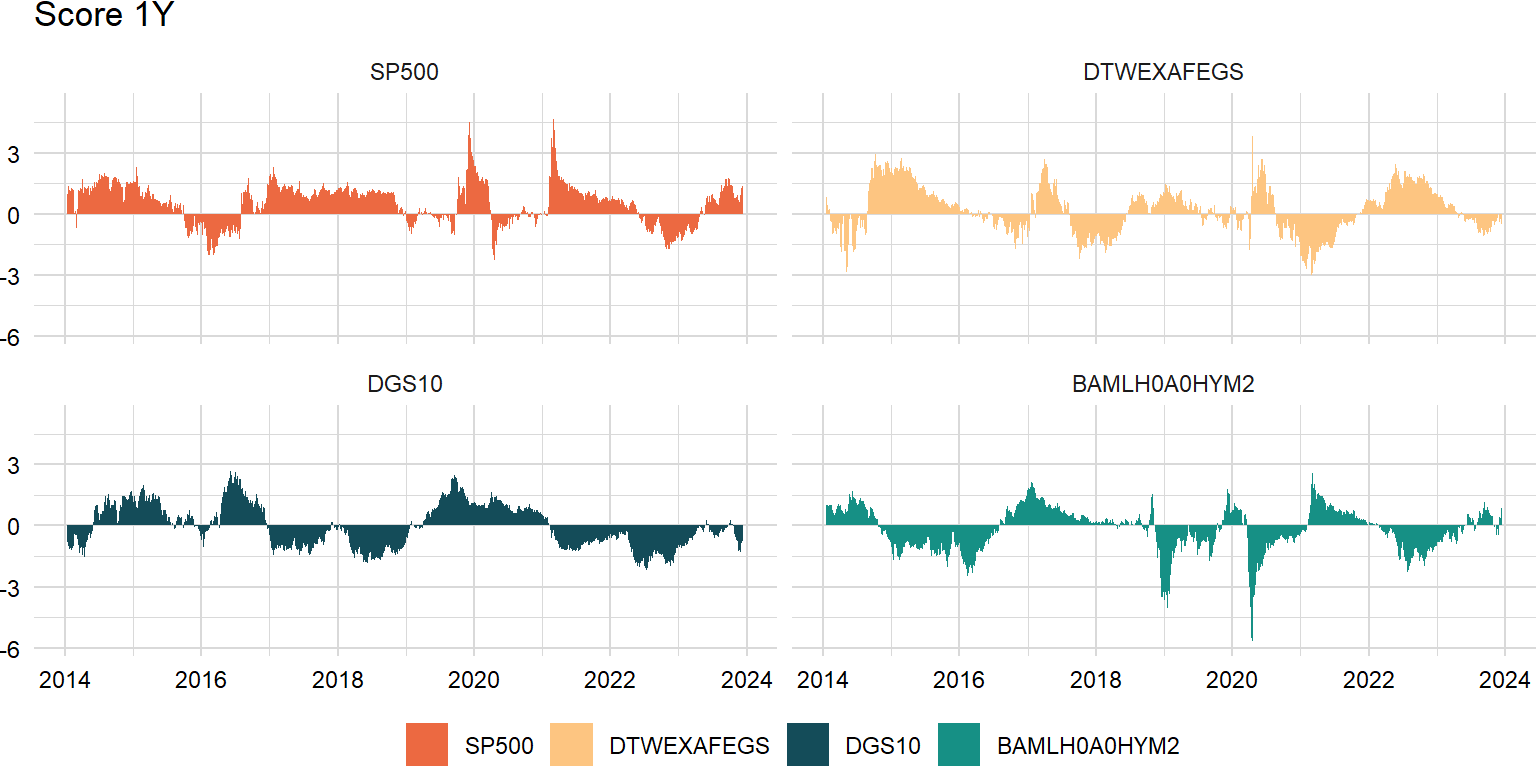
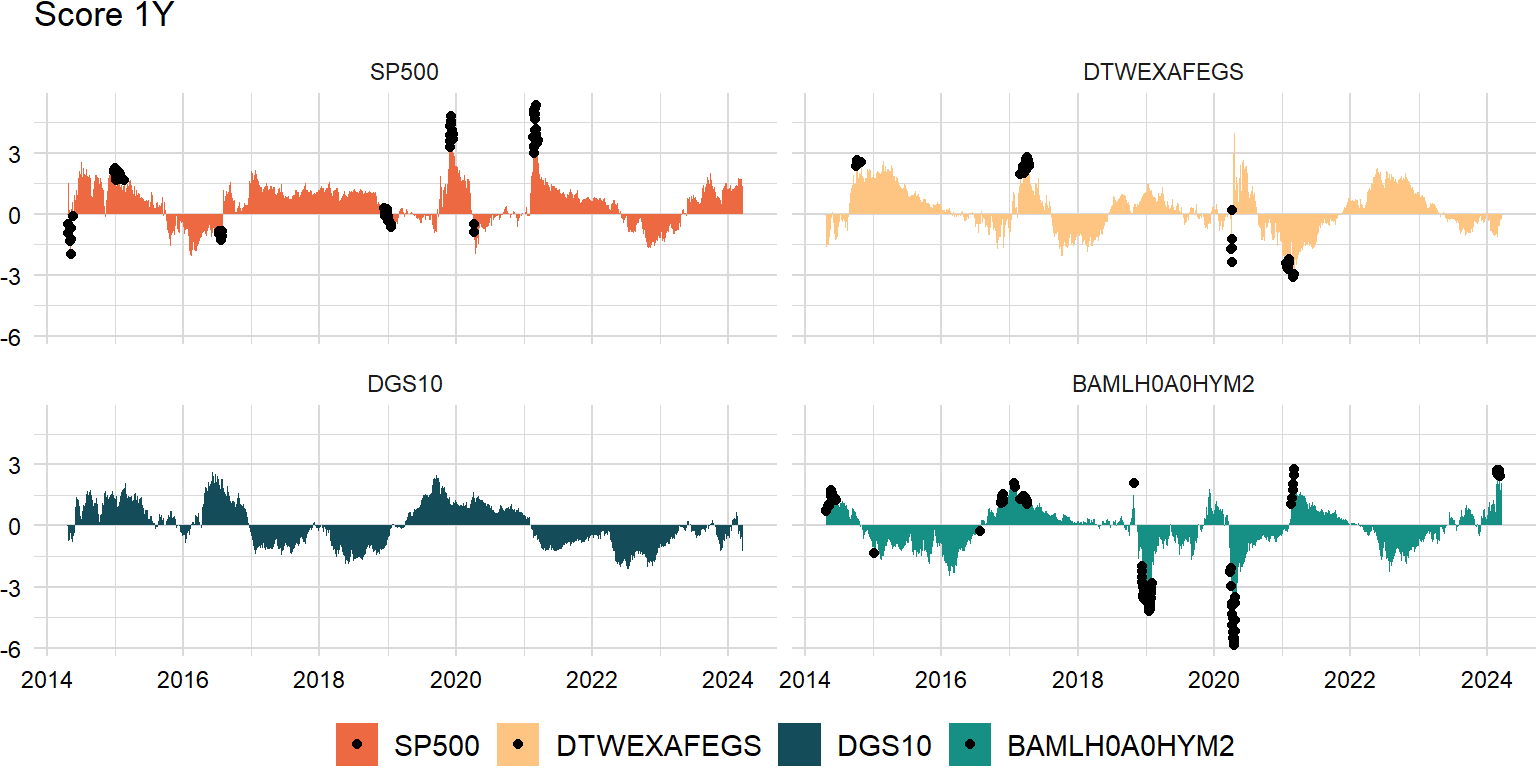
Version: 1.0.0

diff --git a/docs/posts/markets-py/index.html b/docs/posts/markets-py/index.html
@@ -334,6 +334,9 @@ window.Quarto = {
 </section>
 <section id="outlier-detection" class="level1">
 <h1>Outlier detection</h1>
+<div class="cell">
+<div class="sourceCode cell-code" id="cb9"><pre class="sourceCode python code-with-copy"><code class="sourceCode python"><span id="cb9-1"><a href="#cb9-1" aria-hidden="true" tabindex="-1"></a><span class="im">import</span> statsmodels.api <span class="im">as</span> sm</span></code><button title="Copy to Clipboard" class="code-copy-button"><i class="bi"></i></button></pre></div>
+</div>
 <section id="interquartile-range" class="level2">
 <h2 class="anchored" data-anchor-id="interquartile-range">Interquartile range</h2>
 <p>Outliers are defined as the regression residuals that fall below <span class="math inline">\(Q_{1}−1.5\times IQR\)</span> or above <span class="math inline">\(Q_{3}+1.5\times IQR\)</span>:</p>
@@ -343,46 +346,46 @@ window.Quarto = {
 <li><a href="https://robjhyndman.com/hyndsight/tsoutliers/" class="uri">https://robjhyndman.com/hyndsight/tsoutliers/</a></li>
 </ul>
 <div class="cell">
-<div class="sourceCode cell-code" id="cb9"><pre class="sourceCode python code-with-copy"><code class="sourceCode python"><span id="cb9-1"><a href="#cb9-1" aria-hidden="true" tabindex="-1"></a><span class="kw">def</span> outliers(z):</span>
-<span id="cb9-2"><a href="#cb9-2" aria-hidden="true" tabindex="-1"></a>  </span>
-<span id="cb9-3"><a href="#cb9-3" aria-hidden="true" tabindex="-1"></a>    n_cols <span class="op">=</span> z.shape[<span class="dv">1</span>]</span>
-<span id="cb9-4"><a href="#cb9-4" aria-hidden="true" tabindex="-1"></a>    result_ls <span class="op">=</span> []</span>
-<span id="cb9-5"><a href="#cb9-5" aria-hidden="true" tabindex="-1"></a></span>
-<span id="cb9-6"><a href="#cb9-6" aria-hidden="true" tabindex="-1"></a>    <span class="cf">for</span> j <span class="kw">in</span> <span class="bu">range</span>(n_cols):</span>
-<span id="cb9-7"><a href="#cb9-7" aria-hidden="true" tabindex="-1"></a>      </span>
-<span id="cb9-8"><a href="#cb9-8" aria-hidden="true" tabindex="-1"></a>        y <span class="op">=</span> z.iloc[:, j]</span>
-<span id="cb9-9"><a href="#cb9-9" aria-hidden="true" tabindex="-1"></a></span>
-<span id="cb9-10"><a href="#cb9-10" aria-hidden="true" tabindex="-1"></a>        <span class="cf">if</span> (n_cols <span class="op">==</span> <span class="dv">0</span>):</span>
-<span id="cb9-11"><a href="#cb9-11" aria-hidden="true" tabindex="-1"></a>            x <span class="op">=</span> sm.add_constant(<span class="bu">range</span>(<span class="bu">len</span>(y)))</span>
-<span id="cb9-12"><a href="#cb9-12" aria-hidden="true" tabindex="-1"></a>        <span class="cf">else</span>:</span>
-<span id="cb9-13"><a href="#cb9-13" aria-hidden="true" tabindex="-1"></a>            x <span class="op">=</span> sm.add_constant(z.drop(z.columns[j], axis <span class="op">=</span> <span class="dv">1</span>))</span>
-<span id="cb9-14"><a href="#cb9-14" aria-hidden="true" tabindex="-1"></a></span>
-<span id="cb9-15"><a href="#cb9-15" aria-hidden="true" tabindex="-1"></a>        coef <span class="op">=</span> sm.WLS(y, x).fit().params</span>
-<span id="cb9-16"><a href="#cb9-16" aria-hidden="true" tabindex="-1"></a>        predict <span class="op">=</span> coef.iloc[<span class="dv">0</span>] <span class="op">+</span> np.dot(x.iloc[:, <span class="dv">1</span>:], coef[<span class="dv">1</span>:])</span>
-<span id="cb9-17"><a href="#cb9-17" aria-hidden="true" tabindex="-1"></a>        resid <span class="op">=</span> y <span class="op">-</span> predict</span>
-<span id="cb9-18"><a href="#cb9-18" aria-hidden="true" tabindex="-1"></a></span>
-<span id="cb9-19"><a href="#cb9-19" aria-hidden="true" tabindex="-1"></a>        lower <span class="op">=</span> resid.quantile(<span class="fl">0.25</span>)</span>
-<span id="cb9-20"><a href="#cb9-20" aria-hidden="true" tabindex="-1"></a>        upper <span class="op">=</span> resid.quantile(<span class="fl">0.75</span>)</span>
-<span id="cb9-21"><a href="#cb9-21" aria-hidden="true" tabindex="-1"></a>        iqr <span class="op">=</span> upper <span class="op">-</span> lower</span>
-<span id="cb9-22"><a href="#cb9-22" aria-hidden="true" tabindex="-1"></a></span>
-<span id="cb9-23"><a href="#cb9-23" aria-hidden="true" tabindex="-1"></a>        total <span class="op">=</span> y[(resid <span class="op">&lt;</span> lower <span class="op">-</span> <span class="fl">1.5</span> <span class="op">*</span> iqr) <span class="op">|</span> (resid <span class="op">&gt;</span> upper <span class="op">+</span> <span class="fl">1.5</span> <span class="op">*</span> iqr)]</span>
-<span id="cb9-24"><a href="#cb9-24" aria-hidden="true" tabindex="-1"></a>        </span>
-<span id="cb9-25"><a href="#cb9-25" aria-hidden="true" tabindex="-1"></a>        total <span class="op">=</span> pd.DataFrame({<span class="st">"date"</span>: total.index, <span class="st">"symbol"</span>: total.name, <span class="st">"values"</span>: total})</span>
-<span id="cb9-26"><a href="#cb9-26" aria-hidden="true" tabindex="-1"></a>        result_ls.append(total)</span>
-<span id="cb9-27"><a href="#cb9-27" aria-hidden="true" tabindex="-1"></a></span>
-<span id="cb9-28"><a href="#cb9-28" aria-hidden="true" tabindex="-1"></a>    result <span class="op">=</span> pd.concat(result_ls, ignore_index <span class="op">=</span> <span class="va">True</span>)</span>
-<span id="cb9-29"><a href="#cb9-29" aria-hidden="true" tabindex="-1"></a>    result <span class="op">=</span> result.pivot_table(index <span class="op">=</span> <span class="st">"date"</span>, columns <span class="op">=</span> <span class="st">"symbol"</span>, values <span class="op">=</span> <span class="st">"values"</span>)</span>
-<span id="cb9-30"><a href="#cb9-30" aria-hidden="true" tabindex="-1"></a></span>
-<span id="cb9-31"><a href="#cb9-31" aria-hidden="true" tabindex="-1"></a>    <span class="cf">return</span> result</span></code><button title="Copy to Clipboard" class="code-copy-button"><i class="bi"></i></button></pre></div>
+<div class="sourceCode cell-code" id="cb10"><pre class="sourceCode python code-with-copy"><code class="sourceCode python"><span id="cb10-1"><a href="#cb10-1" aria-hidden="true" tabindex="-1"></a><span class="kw">def</span> outliers(z):</span>
+<span id="cb10-2"><a href="#cb10-2" aria-hidden="true" tabindex="-1"></a>  </span>
+<span id="cb10-3"><a href="#cb10-3" aria-hidden="true" tabindex="-1"></a>    n_cols <span class="op">=</span> z.shape[<span class="dv">1</span>]</span>
+<span id="cb10-4"><a href="#cb10-4" aria-hidden="true" tabindex="-1"></a>    result_ls <span class="op">=</span> []</span>
+<span id="cb10-5"><a href="#cb10-5" aria-hidden="true" tabindex="-1"></a></span>
+<span id="cb10-6"><a href="#cb10-6" aria-hidden="true" tabindex="-1"></a>    <span class="cf">for</span> j <span class="kw">in</span> <span class="bu">range</span>(n_cols):</span>
+<span id="cb10-7"><a href="#cb10-7" aria-hidden="true" tabindex="-1"></a>      </span>
+<span id="cb10-8"><a href="#cb10-8" aria-hidden="true" tabindex="-1"></a>        y <span class="op">=</span> z.iloc[:, j]</span>
+<span id="cb10-9"><a href="#cb10-9" aria-hidden="true" tabindex="-1"></a></span>
+<span id="cb10-10"><a href="#cb10-10" aria-hidden="true" tabindex="-1"></a>        <span class="cf">if</span> (n_cols <span class="op">==</span> <span class="dv">0</span>):</span>
+<span id="cb10-11"><a href="#cb10-11" aria-hidden="true" tabindex="-1"></a>            x <span class="op">=</span> sm.add_constant(<span class="bu">range</span>(<span class="bu">len</span>(y)))</span>
+<span id="cb10-12"><a href="#cb10-12" aria-hidden="true" tabindex="-1"></a>        <span class="cf">else</span>:</span>
+<span id="cb10-13"><a href="#cb10-13" aria-hidden="true" tabindex="-1"></a>            x <span class="op">=</span> sm.add_constant(z.drop(z.columns[j], axis <span class="op">=</span> <span class="dv">1</span>))</span>
+<span id="cb10-14"><a href="#cb10-14" aria-hidden="true" tabindex="-1"></a></span>
+<span id="cb10-15"><a href="#cb10-15" aria-hidden="true" tabindex="-1"></a>        coef <span class="op">=</span> sm.WLS(y, x).fit().params</span>
+<span id="cb10-16"><a href="#cb10-16" aria-hidden="true" tabindex="-1"></a>        predict <span class="op">=</span> coef.iloc[<span class="dv">0</span>] <span class="op">+</span> np.dot(x.iloc[:, <span class="dv">1</span>:], coef[<span class="dv">1</span>:])</span>
+<span id="cb10-17"><a href="#cb10-17" aria-hidden="true" tabindex="-1"></a>        resid <span class="op">=</span> y <span class="op">-</span> predict</span>
+<span id="cb10-18"><a href="#cb10-18" aria-hidden="true" tabindex="-1"></a></span>
+<span id="cb10-19"><a href="#cb10-19" aria-hidden="true" tabindex="-1"></a>        lower <span class="op">=</span> resid.quantile(<span class="fl">0.25</span>)</span>
+<span id="cb10-20"><a href="#cb10-20" aria-hidden="true" tabindex="-1"></a>        upper <span class="op">=</span> resid.quantile(<span class="fl">0.75</span>)</span>
+<span id="cb10-21"><a href="#cb10-21" aria-hidden="true" tabindex="-1"></a>        iqr <span class="op">=</span> upper <span class="op">-</span> lower</span>
+<span id="cb10-22"><a href="#cb10-22" aria-hidden="true" tabindex="-1"></a></span>
+<span id="cb10-23"><a href="#cb10-23" aria-hidden="true" tabindex="-1"></a>        total <span class="op">=</span> y[(resid <span class="op">&lt;</span> lower <span class="op">-</span> <span class="fl">1.5</span> <span class="op">*</span> iqr) <span class="op">|</span> (resid <span class="op">&gt;</span> upper <span class="op">+</span> <span class="fl">1.5</span> <span class="op">*</span> iqr)]</span>
+<span id="cb10-24"><a href="#cb10-24" aria-hidden="true" tabindex="-1"></a>        </span>
+<span id="cb10-25"><a href="#cb10-25" aria-hidden="true" tabindex="-1"></a>        total <span class="op">=</span> pd.DataFrame({<span class="st">"date"</span>: total.index, <span class="st">"symbol"</span>: total.name, <span class="st">"values"</span>: total})</span>
+<span id="cb10-26"><a href="#cb10-26" aria-hidden="true" tabindex="-1"></a>        result_ls.append(total)</span>
+<span id="cb10-27"><a href="#cb10-27" aria-hidden="true" tabindex="-1"></a></span>
+<span id="cb10-28"><a href="#cb10-28" aria-hidden="true" tabindex="-1"></a>    result <span class="op">=</span> pd.concat(result_ls, ignore_index <span class="op">=</span> <span class="va">True</span>)</span>
+<span id="cb10-29"><a href="#cb10-29" aria-hidden="true" tabindex="-1"></a>    result <span class="op">=</span> result.pivot_table(index <span class="op">=</span> <span class="st">"date"</span>, columns <span class="op">=</span> <span class="st">"symbol"</span>, values <span class="op">=</span> <span class="st">"values"</span>)</span>
+<span id="cb10-30"><a href="#cb10-30" aria-hidden="true" tabindex="-1"></a></span>
+<span id="cb10-31"><a href="#cb10-31" aria-hidden="true" tabindex="-1"></a>    <span class="cf">return</span> result</span></code><button title="Copy to Clipboard" class="code-copy-button"><i class="bi"></i></button></pre></div>
 </div>
 <div class="cell">
-<div class="sourceCode cell-code" id="cb10"><pre class="sourceCode python code-with-copy"><code class="sourceCode python"><span id="cb10-1"><a href="#cb10-1" aria-hidden="true" tabindex="-1"></a>outliers_df <span class="op">=</span> outliers(score_df)</span></code><button title="Copy to Clipboard" class="code-copy-button"><i class="bi"></i></button></pre></div>
+<div class="sourceCode cell-code" id="cb11"><pre class="sourceCode python code-with-copy"><code class="sourceCode python"><span id="cb11-1"><a href="#cb11-1" aria-hidden="true" tabindex="-1"></a>outliers_df <span class="op">=</span> outliers(score_df)</span></code><button title="Copy to Clipboard" class="code-copy-button"><i class="bi"></i></button></pre></div>
 </div>
 <div class="cell">
 <div class="cell-output-display">
 <div>
 <figure class="figure">
-<p><img src="index_files/figure-html/unnamed-chunk-15-1.png" class="img-fluid figure-img" width="768"></p>
+<p><img src="index_files/figure-html/unnamed-chunk-16-1.png" class="img-fluid figure-img" width="768"></p>
 </figure>
 </div>
 </div>
@@ -395,7 +398,7 @@ window.Quarto = {
 <section id="granger-causality" class="level1">
 <h1>Granger causality</h1>
 <div class="cell">
-<div class="sourceCode cell-code" id="cb11"><pre class="sourceCode python code-with-copy"><code class="sourceCode python"><span id="cb11-1"><a href="#cb11-1" aria-hidden="true" tabindex="-1"></a><span class="im">from</span> scipy.stats <span class="im">import</span> chi2</span></code><button title="Copy to Clipboard" class="code-copy-button"><i class="bi"></i></button></pre></div>
+<div class="sourceCode cell-code" id="cb12"><pre class="sourceCode python code-with-copy"><code class="sourceCode python"><span id="cb12-1"><a href="#cb12-1" aria-hidden="true" tabindex="-1"></a><span class="im">from</span> scipy.stats <span class="im">import</span> chi2</span></code><button title="Copy to Clipboard" class="code-copy-button"><i class="bi"></i></button></pre></div>
 </div>
 <p><span class="math display">\[
 \begin{aligned}
@@ -408,72 +411,72 @@ window.Quarto = {
 <li><a href="https://math.stackexchange.com/a/1591946" class="uri">https://math.stackexchange.com/a/1591946</a></li>
 </ul>
 <div class="cell">
-<div class="sourceCode cell-code" id="cb12"><pre class="sourceCode python code-with-copy"><code class="sourceCode python"><span id="cb12-1"><a href="#cb12-1" aria-hidden="true" tabindex="-1"></a><span class="kw">def</span> granger_test(x, y, order):</span>
-<span id="cb12-2"><a href="#cb12-2" aria-hidden="true" tabindex="-1"></a>    </span>
-<span id="cb12-3"><a href="#cb12-3" aria-hidden="true" tabindex="-1"></a>    <span class="co"># compute lagged observations</span></span>
-<span id="cb12-4"><a href="#cb12-4" aria-hidden="true" tabindex="-1"></a>    lag_x <span class="op">=</span> x.shift(order)</span>
-<span id="cb12-5"><a href="#cb12-5" aria-hidden="true" tabindex="-1"></a>    lag_y <span class="op">=</span> y.shift(order)</span>
-<span id="cb12-6"><a href="#cb12-6" aria-hidden="true" tabindex="-1"></a>    </span>
-<span id="cb12-7"><a href="#cb12-7" aria-hidden="true" tabindex="-1"></a>    <span class="co"># collect series</span></span>
-<span id="cb12-8"><a href="#cb12-8" aria-hidden="true" tabindex="-1"></a>    df <span class="op">=</span> pd.DataFrame({<span class="st">"x"</span>: x, <span class="st">"y"</span>: y, <span class="st">"lag_x"</span>: lag_x, <span class="st">"lag_y"</span>: lag_y})</span>
-<span id="cb12-9"><a href="#cb12-9" aria-hidden="true" tabindex="-1"></a>    x <span class="op">=</span> sm.add_constant(df[[<span class="st">"lag_y"</span>, <span class="st">"lag_x"</span>]])</span>
-<span id="cb12-10"><a href="#cb12-10" aria-hidden="true" tabindex="-1"></a>    </span>
-<span id="cb12-11"><a href="#cb12-11" aria-hidden="true" tabindex="-1"></a>    <span class="co"># fit full model</span></span>
-<span id="cb12-12"><a href="#cb12-12" aria-hidden="true" tabindex="-1"></a>    fit <span class="op">=</span> sm.WLS(df[<span class="st">"y"</span>], x, missing <span class="op">=</span> <span class="st">"drop"</span>).fit()</span>
-<span id="cb12-13"><a href="#cb12-13" aria-hidden="true" tabindex="-1"></a>    </span>
-<span id="cb12-14"><a href="#cb12-14" aria-hidden="true" tabindex="-1"></a>    R <span class="op">=</span> np.array([<span class="dv">0</span>, <span class="dv">0</span>, <span class="dv">1</span>])</span>
-<span id="cb12-15"><a href="#cb12-15" aria-hidden="true" tabindex="-1"></a>    coef <span class="op">=</span> fit.params</span>
-<span id="cb12-16"><a href="#cb12-16" aria-hidden="true" tabindex="-1"></a>    r <span class="op">=</span> <span class="dv">0</span> <span class="co"># technically a matrix (see Stack Exchange)</span></span>
-<span id="cb12-17"><a href="#cb12-17" aria-hidden="true" tabindex="-1"></a>    </span>
-<span id="cb12-18"><a href="#cb12-18" aria-hidden="true" tabindex="-1"></a>    matmul <span class="op">=</span> np.dot(R, coef) <span class="op">-</span> r</span>
-<span id="cb12-19"><a href="#cb12-19" aria-hidden="true" tabindex="-1"></a>    matmul_mid <span class="op">=</span> np.linalg.inv(np.atleast_2d(np.dot(R, np.dot(fit.cov_params(), R.T))))</span>
-<span id="cb12-20"><a href="#cb12-20" aria-hidden="true" tabindex="-1"></a>    wald <span class="op">=</span> np.dot(matmul.T, np.dot(matmul_mid, matmul))</span>
-<span id="cb12-21"><a href="#cb12-21" aria-hidden="true" tabindex="-1"></a>    </span>
-<span id="cb12-22"><a href="#cb12-22" aria-hidden="true" tabindex="-1"></a>    result <span class="op">=</span> <span class="dv">1</span> <span class="op">-</span> chi2.cdf(wald, <span class="dv">1</span>)</span>
-<span id="cb12-23"><a href="#cb12-23" aria-hidden="true" tabindex="-1"></a>    </span>
-<span id="cb12-24"><a href="#cb12-24" aria-hidden="true" tabindex="-1"></a>    <span class="cf">return</span> np.ravel(result)</span></code><button title="Copy to Clipboard" class="code-copy-button"><i class="bi"></i></button></pre></div>
-</div>
-<div class="cell">
-<div class="sourceCode cell-code" id="cb13"><pre class="sourceCode python code-with-copy"><code class="sourceCode python"><span id="cb13-1"><a href="#cb13-1" aria-hidden="true" tabindex="-1"></a><span class="kw">def</span> roll_lead_lag(x, y, width, order, p_value):</span>
-<span id="cb13-2"><a href="#cb13-2" aria-hidden="true" tabindex="-1"></a>  </span>
-<span id="cb13-3"><a href="#cb13-3" aria-hidden="true" tabindex="-1"></a>    n_rows <span class="op">=</span> <span class="bu">len</span>(x)</span>
-<span id="cb13-4"><a href="#cb13-4" aria-hidden="true" tabindex="-1"></a>    x_name <span class="op">=</span> x.name</span>
-<span id="cb13-5"><a href="#cb13-5" aria-hidden="true" tabindex="-1"></a>    y_name <span class="op">=</span> y.name</span>
-<span id="cb13-6"><a href="#cb13-6" aria-hidden="true" tabindex="-1"></a>    x_y_ls <span class="op">=</span> []</span>
-<span id="cb13-7"><a href="#cb13-7" aria-hidden="true" tabindex="-1"></a>    y_x_ls <span class="op">=</span> []</span>
-<span id="cb13-8"><a href="#cb13-8" aria-hidden="true" tabindex="-1"></a></span>
-<span id="cb13-9"><a href="#cb13-9" aria-hidden="true" tabindex="-1"></a>    <span class="cf">for</span> i <span class="kw">in</span> <span class="bu">range</span>(width <span class="op">-</span> <span class="dv">1</span>, n_rows):</span>
-<span id="cb13-10"><a href="#cb13-10" aria-hidden="true" tabindex="-1"></a>      </span>
-<span id="cb13-11"><a href="#cb13-11" aria-hidden="true" tabindex="-1"></a>        idx <span class="op">=</span> <span class="bu">range</span>(<span class="bu">max</span>(i <span class="op">-</span> width <span class="op">+</span> <span class="dv">1</span>, <span class="dv">0</span>), i <span class="op">+</span> <span class="dv">1</span>)</span>
-<span id="cb13-12"><a href="#cb13-12" aria-hidden="true" tabindex="-1"></a></span>
-<span id="cb13-13"><a href="#cb13-13" aria-hidden="true" tabindex="-1"></a>        x_y <span class="op">=</span> granger_test(x.iloc[idx], y.iloc[idx], order)</span>
-<span id="cb13-14"><a href="#cb13-14" aria-hidden="true" tabindex="-1"></a>        y_x <span class="op">=</span> granger_test(y.iloc[idx], x.iloc[idx], order)</span>
-<span id="cb13-15"><a href="#cb13-15" aria-hidden="true" tabindex="-1"></a></span>
-<span id="cb13-16"><a href="#cb13-16" aria-hidden="true" tabindex="-1"></a>        x_y_status <span class="op">=</span> (x_y <span class="op">&lt;</span> p_value) <span class="kw">and</span> (y_x <span class="op">&gt;</span> p_value)</span>
-<span id="cb13-17"><a href="#cb13-17" aria-hidden="true" tabindex="-1"></a>        y_x_status <span class="op">=</span> (x_y <span class="op">&gt;</span> p_value) <span class="kw">and</span> (y_x <span class="op">&lt;</span> p_value)</span>
-<span id="cb13-18"><a href="#cb13-18" aria-hidden="true" tabindex="-1"></a>        </span>
-<span id="cb13-19"><a href="#cb13-19" aria-hidden="true" tabindex="-1"></a>        x_y_ls.append(x_y_status)</span>
-<span id="cb13-20"><a href="#cb13-20" aria-hidden="true" tabindex="-1"></a>        y_x_ls.append(y_x_status)</span>
+<div class="sourceCode cell-code" id="cb13"><pre class="sourceCode python code-with-copy"><code class="sourceCode python"><span id="cb13-1"><a href="#cb13-1" aria-hidden="true" tabindex="-1"></a><span class="kw">def</span> granger_test(x, y, order):</span>
+<span id="cb13-2"><a href="#cb13-2" aria-hidden="true" tabindex="-1"></a>    </span>
+<span id="cb13-3"><a href="#cb13-3" aria-hidden="true" tabindex="-1"></a>    <span class="co"># compute lagged observations</span></span>
+<span id="cb13-4"><a href="#cb13-4" aria-hidden="true" tabindex="-1"></a>    lag_x <span class="op">=</span> x.shift(order)</span>
+<span id="cb13-5"><a href="#cb13-5" aria-hidden="true" tabindex="-1"></a>    lag_y <span class="op">=</span> y.shift(order)</span>
+<span id="cb13-6"><a href="#cb13-6" aria-hidden="true" tabindex="-1"></a>    </span>
+<span id="cb13-7"><a href="#cb13-7" aria-hidden="true" tabindex="-1"></a>    <span class="co"># collect series</span></span>
+<span id="cb13-8"><a href="#cb13-8" aria-hidden="true" tabindex="-1"></a>    df <span class="op">=</span> pd.DataFrame({<span class="st">"x"</span>: x, <span class="st">"y"</span>: y, <span class="st">"lag_x"</span>: lag_x, <span class="st">"lag_y"</span>: lag_y})</span>
+<span id="cb13-9"><a href="#cb13-9" aria-hidden="true" tabindex="-1"></a>    x <span class="op">=</span> sm.add_constant(df[[<span class="st">"lag_y"</span>, <span class="st">"lag_x"</span>]])</span>
+<span id="cb13-10"><a href="#cb13-10" aria-hidden="true" tabindex="-1"></a>    </span>
+<span id="cb13-11"><a href="#cb13-11" aria-hidden="true" tabindex="-1"></a>    <span class="co"># fit full model</span></span>
+<span id="cb13-12"><a href="#cb13-12" aria-hidden="true" tabindex="-1"></a>    fit <span class="op">=</span> sm.WLS(df[<span class="st">"y"</span>], x, missing <span class="op">=</span> <span class="st">"drop"</span>).fit()</span>
+<span id="cb13-13"><a href="#cb13-13" aria-hidden="true" tabindex="-1"></a>    </span>
+<span id="cb13-14"><a href="#cb13-14" aria-hidden="true" tabindex="-1"></a>    R <span class="op">=</span> np.array([<span class="dv">0</span>, <span class="dv">0</span>, <span class="dv">1</span>])</span>
+<span id="cb13-15"><a href="#cb13-15" aria-hidden="true" tabindex="-1"></a>    coef <span class="op">=</span> fit.params</span>
+<span id="cb13-16"><a href="#cb13-16" aria-hidden="true" tabindex="-1"></a>    r <span class="op">=</span> <span class="dv">0</span> <span class="co"># technically a matrix (see Stack Exchange)</span></span>
+<span id="cb13-17"><a href="#cb13-17" aria-hidden="true" tabindex="-1"></a>    </span>
+<span id="cb13-18"><a href="#cb13-18" aria-hidden="true" tabindex="-1"></a>    matmul <span class="op">=</span> np.dot(R, coef) <span class="op">-</span> r</span>
+<span id="cb13-19"><a href="#cb13-19" aria-hidden="true" tabindex="-1"></a>    matmul_mid <span class="op">=</span> np.linalg.inv(np.atleast_2d(np.dot(R, np.dot(fit.cov_params(), R.T))))</span>
+<span id="cb13-20"><a href="#cb13-20" aria-hidden="true" tabindex="-1"></a>    wald <span class="op">=</span> np.dot(matmul.T, np.dot(matmul_mid, matmul))</span>
 <span id="cb13-21"><a href="#cb13-21" aria-hidden="true" tabindex="-1"></a>    </span>
-<span id="cb13-22"><a href="#cb13-22" aria-hidden="true" tabindex="-1"></a>    result <span class="op">=</span> pd.DataFrame({x_name: x_y_ls, y_name: y_x_ls}, index <span class="op">=</span> x.index[(width <span class="op">-</span> <span class="dv">1</span>):])</span>
-<span id="cb13-23"><a href="#cb13-23" aria-hidden="true" tabindex="-1"></a></span>
-<span id="cb13-24"><a href="#cb13-24" aria-hidden="true" tabindex="-1"></a>    <span class="cf">return</span> result</span></code><button title="Copy to Clipboard" class="code-copy-button"><i class="bi"></i></button></pre></div>
+<span id="cb13-22"><a href="#cb13-22" aria-hidden="true" tabindex="-1"></a>    result <span class="op">=</span> <span class="dv">1</span> <span class="op">-</span> chi2.cdf(wald, <span class="dv">1</span>)</span>
+<span id="cb13-23"><a href="#cb13-23" aria-hidden="true" tabindex="-1"></a>    </span>
+<span id="cb13-24"><a href="#cb13-24" aria-hidden="true" tabindex="-1"></a>    <span class="cf">return</span> np.ravel(result)</span></code><button title="Copy to Clipboard" class="code-copy-button"><i class="bi"></i></button></pre></div>
 </div>
 <div class="cell">
-<div class="sourceCode cell-code" id="cb14"><pre class="sourceCode python code-with-copy"><code class="sourceCode python"><span id="cb14-1"><a href="#cb14-1" aria-hidden="true" tabindex="-1"></a>p_value <span class="op">=</span> <span class="fl">0.05</span></span></code><button title="Copy to Clipboard" class="code-copy-button"><i class="bi"></i></button></pre></div>
+<div class="sourceCode cell-code" id="cb14"><pre class="sourceCode python code-with-copy"><code class="sourceCode python"><span id="cb14-1"><a href="#cb14-1" aria-hidden="true" tabindex="-1"></a><span class="kw">def</span> roll_lead_lag(x, y, width, order, p_value):</span>
+<span id="cb14-2"><a href="#cb14-2" aria-hidden="true" tabindex="-1"></a>  </span>
+<span id="cb14-3"><a href="#cb14-3" aria-hidden="true" tabindex="-1"></a>    n_rows <span class="op">=</span> <span class="bu">len</span>(x)</span>
+<span id="cb14-4"><a href="#cb14-4" aria-hidden="true" tabindex="-1"></a>    x_name <span class="op">=</span> x.name</span>
+<span id="cb14-5"><a href="#cb14-5" aria-hidden="true" tabindex="-1"></a>    y_name <span class="op">=</span> y.name</span>
+<span id="cb14-6"><a href="#cb14-6" aria-hidden="true" tabindex="-1"></a>    x_y_ls <span class="op">=</span> []</span>
+<span id="cb14-7"><a href="#cb14-7" aria-hidden="true" tabindex="-1"></a>    y_x_ls <span class="op">=</span> []</span>
+<span id="cb14-8"><a href="#cb14-8" aria-hidden="true" tabindex="-1"></a></span>
+<span id="cb14-9"><a href="#cb14-9" aria-hidden="true" tabindex="-1"></a>    <span class="cf">for</span> i <span class="kw">in</span> <span class="bu">range</span>(width <span class="op">-</span> <span class="dv">1</span>, n_rows):</span>
+<span id="cb14-10"><a href="#cb14-10" aria-hidden="true" tabindex="-1"></a>      </span>
+<span id="cb14-11"><a href="#cb14-11" aria-hidden="true" tabindex="-1"></a>        idx <span class="op">=</span> <span class="bu">range</span>(<span class="bu">max</span>(i <span class="op">-</span> width <span class="op">+</span> <span class="dv">1</span>, <span class="dv">0</span>), i <span class="op">+</span> <span class="dv">1</span>)</span>
+<span id="cb14-12"><a href="#cb14-12" aria-hidden="true" tabindex="-1"></a></span>
+<span id="cb14-13"><a href="#cb14-13" aria-hidden="true" tabindex="-1"></a>        x_y <span class="op">=</span> granger_test(x.iloc[idx], y.iloc[idx], order)</span>
+<span id="cb14-14"><a href="#cb14-14" aria-hidden="true" tabindex="-1"></a>        y_x <span class="op">=</span> granger_test(y.iloc[idx], x.iloc[idx], order)</span>
+<span id="cb14-15"><a href="#cb14-15" aria-hidden="true" tabindex="-1"></a></span>
+<span id="cb14-16"><a href="#cb14-16" aria-hidden="true" tabindex="-1"></a>        x_y_status <span class="op">=</span> (x_y <span class="op">&lt;</span> p_value) <span class="kw">and</span> (y_x <span class="op">&gt;</span> p_value)</span>
+<span id="cb14-17"><a href="#cb14-17" aria-hidden="true" tabindex="-1"></a>        y_x_status <span class="op">=</span> (x_y <span class="op">&gt;</span> p_value) <span class="kw">and</span> (y_x <span class="op">&lt;</span> p_value)</span>
+<span id="cb14-18"><a href="#cb14-18" aria-hidden="true" tabindex="-1"></a>        </span>
+<span id="cb14-19"><a href="#cb14-19" aria-hidden="true" tabindex="-1"></a>        x_y_ls.append(x_y_status)</span>
+<span id="cb14-20"><a href="#cb14-20" aria-hidden="true" tabindex="-1"></a>        y_x_ls.append(y_x_status)</span>
+<span id="cb14-21"><a href="#cb14-21" aria-hidden="true" tabindex="-1"></a>    </span>
+<span id="cb14-22"><a href="#cb14-22" aria-hidden="true" tabindex="-1"></a>    result <span class="op">=</span> pd.DataFrame({x_name: x_y_ls, y_name: y_x_ls}, index <span class="op">=</span> x.index[(width <span class="op">-</span> <span class="dv">1</span>):])</span>
+<span id="cb14-23"><a href="#cb14-23" aria-hidden="true" tabindex="-1"></a></span>
+<span id="cb14-24"><a href="#cb14-24" aria-hidden="true" tabindex="-1"></a>    <span class="cf">return</span> result</span></code><button title="Copy to Clipboard" class="code-copy-button"><i class="bi"></i></button></pre></div>
 </div>
 <div class="cell">
-<div class="sourceCode cell-code" id="cb15"><pre class="sourceCode python code-with-copy"><code class="sourceCode python"><span id="cb15-1"><a href="#cb15-1" aria-hidden="true" tabindex="-1"></a>score_x_df <span class="op">=</span> score_df.loc[:, <span class="st">"SP500"</span>]</span>
-<span id="cb15-2"><a href="#cb15-2" aria-hidden="true" tabindex="-1"></a>score_y_df <span class="op">=</span> score_df.loc[:, <span class="st">"DGS10"</span>]</span></code><button title="Copy to Clipboard" class="code-copy-button"><i class="bi"></i></button></pre></div>
+<div class="sourceCode cell-code" id="cb15"><pre class="sourceCode python code-with-copy"><code class="sourceCode python"><span id="cb15-1"><a href="#cb15-1" aria-hidden="true" tabindex="-1"></a>p_value <span class="op">=</span> <span class="fl">0.05</span></span></code><button title="Copy to Clipboard" class="code-copy-button"><i class="bi"></i></button></pre></div>
 </div>
 <div class="cell">
-<div class="sourceCode cell-code" id="cb16"><pre class="sourceCode python code-with-copy"><code class="sourceCode python"><span id="cb16-1"><a href="#cb16-1" aria-hidden="true" tabindex="-1"></a>lead_lag_df <span class="op">=</span> roll_lead_lag(score_x_df, score_y_df, width, order, p_value)</span></code><button title="Copy to Clipboard" class="code-copy-button"><i class="bi"></i></button></pre></div>
+<div class="sourceCode cell-code" id="cb16"><pre class="sourceCode python code-with-copy"><code class="sourceCode python"><span id="cb16-1"><a href="#cb16-1" aria-hidden="true" tabindex="-1"></a>score_x_df <span class="op">=</span> score_df.loc[:, <span class="st">"SP500"</span>]</span>
+<span id="cb16-2"><a href="#cb16-2" aria-hidden="true" tabindex="-1"></a>score_y_df <span class="op">=</span> score_df.loc[:, <span class="st">"DGS10"</span>]</span></code><button title="Copy to Clipboard" class="code-copy-button"><i class="bi"></i></button></pre></div>
+</div>
+<div class="cell">
+<div class="sourceCode cell-code" id="cb17"><pre class="sourceCode python code-with-copy"><code class="sourceCode python"><span id="cb17-1"><a href="#cb17-1" aria-hidden="true" tabindex="-1"></a>lead_lag_df <span class="op">=</span> roll_lead_lag(score_x_df, score_y_df, width, order, p_value)</span></code><button title="Copy to Clipboard" class="code-copy-button"><i class="bi"></i></button></pre></div>
 </div>
 <div class="cell">
 <div class="cell-output-display">
 <div>
 <figure class="figure">
-<p><img src="index_files/figure-html/unnamed-chunk-22-1.png" class="img-fluid figure-img" width="576"></p>
+<p><img src="index_files/figure-html/unnamed-chunk-23-1.png" class="img-fluid figure-img" width="576"></p>
 </figure>
 </div>
 </div>

diff --git a/docs/index.html b/docs/index.html
@@ -196,7 +196,7 @@ window.Quarto = {
 
 <div class="quarto-listing quarto-listing-container-grid" id="listing-listing">
 <div class="list grid quarto-listing-cols-3">
-<div class="g-col-1" data-index="0" data-categories="analysis,finance,python" data-listing-date-sort="1711115795000" data-listing-file-modified-sort="1711115795033" data-listing-date-modified-sort="NaN" data-listing-reading-time-sort="6" data-listing-word-count-sort="1091">
+<div class="g-col-1" data-index="0" data-categories="analysis,finance,python" data-listing-date-sort="1711116257000" data-listing-file-modified-sort="1711116257944" data-listing-date-modified-sort="NaN" data-listing-reading-time-sort="6" data-listing-word-count-sort="1094">
 <a href="./posts/markets-py/index.html" class="quarto-grid-link">
 </a><div class="quarto-grid-item card h-100 card-left"><a href="./posts/markets-py/index.html" class="quarto-grid-link">
 <p class="card-img-top"><img src="posts\markets-py\index_files\figure-html\unnamed-chunk-7-1.png" style="height: 0px;"  class="thumbnail-image card-img"/></p>

diff --git a/posts/helper-levels.py b/posts/helper-levels.py
@@ -1,6 +1,5 @@
 import pandas as pd
 import numpy as np
-import statsmodels.api as sm
 import pandas_datareader as pdr # dev version
 
 factors = factors_r + factors_d
